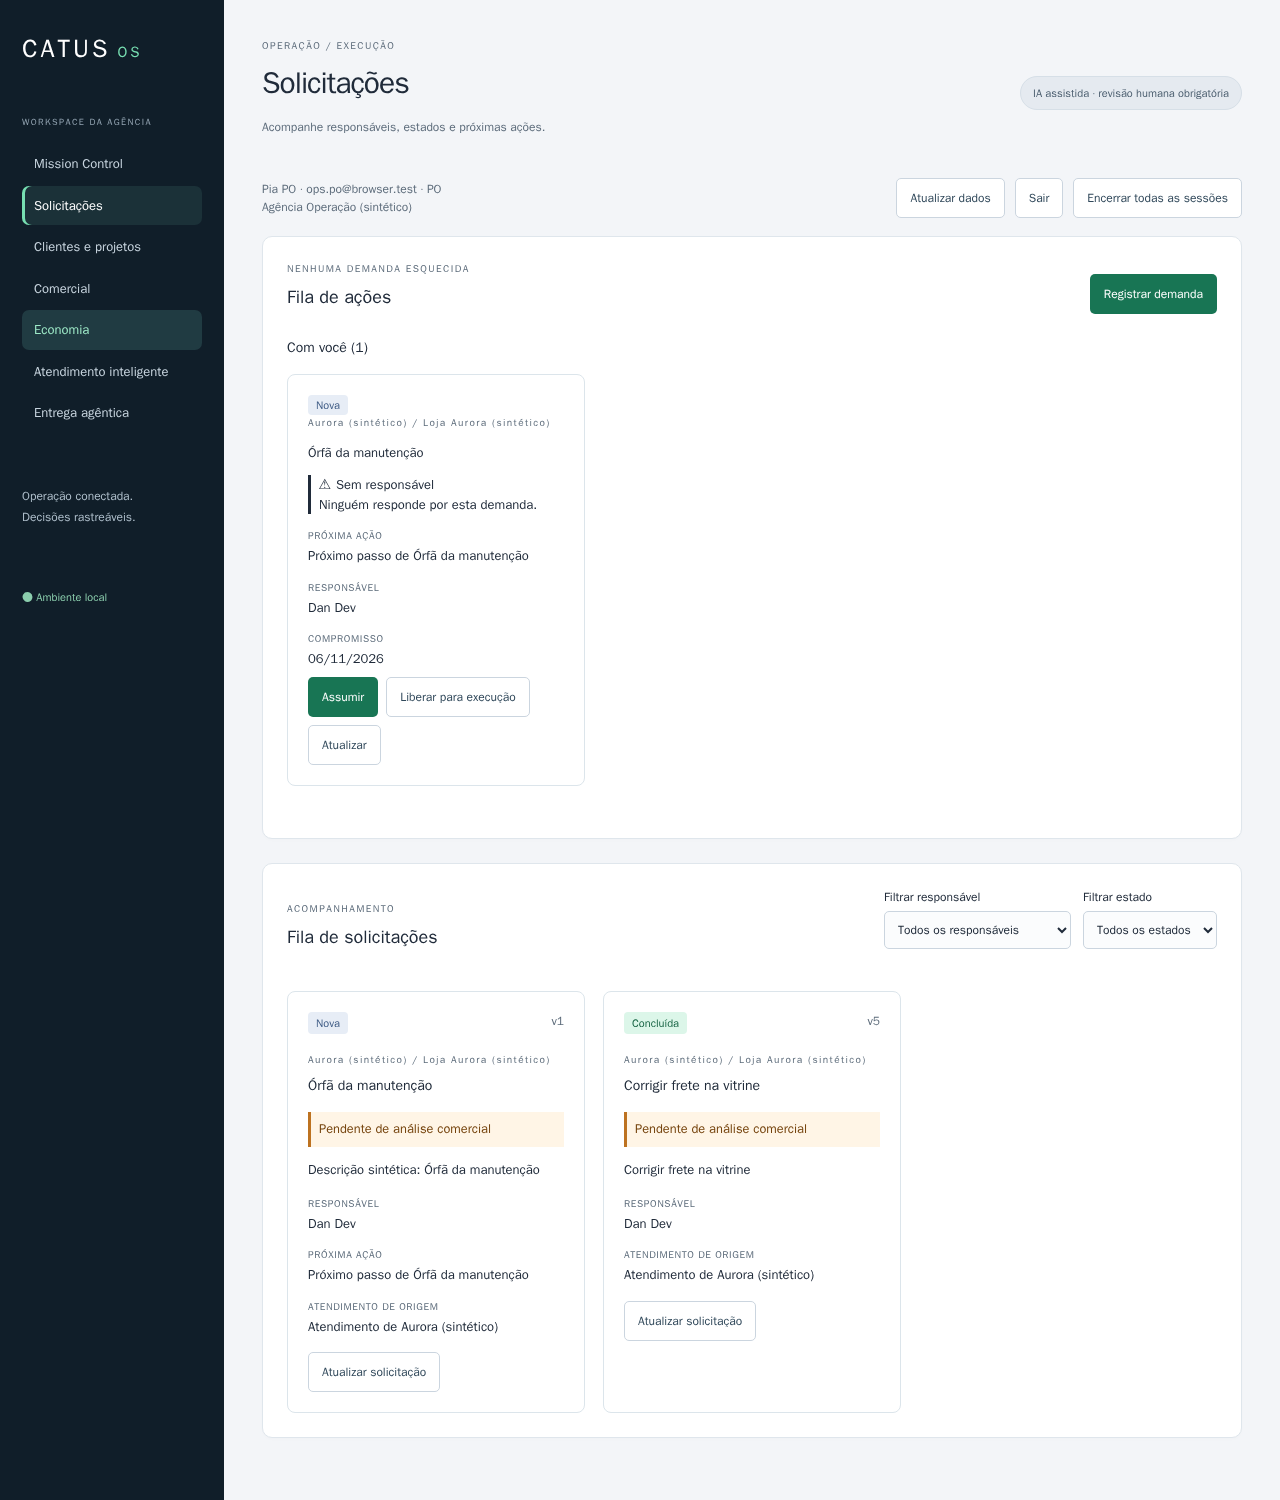
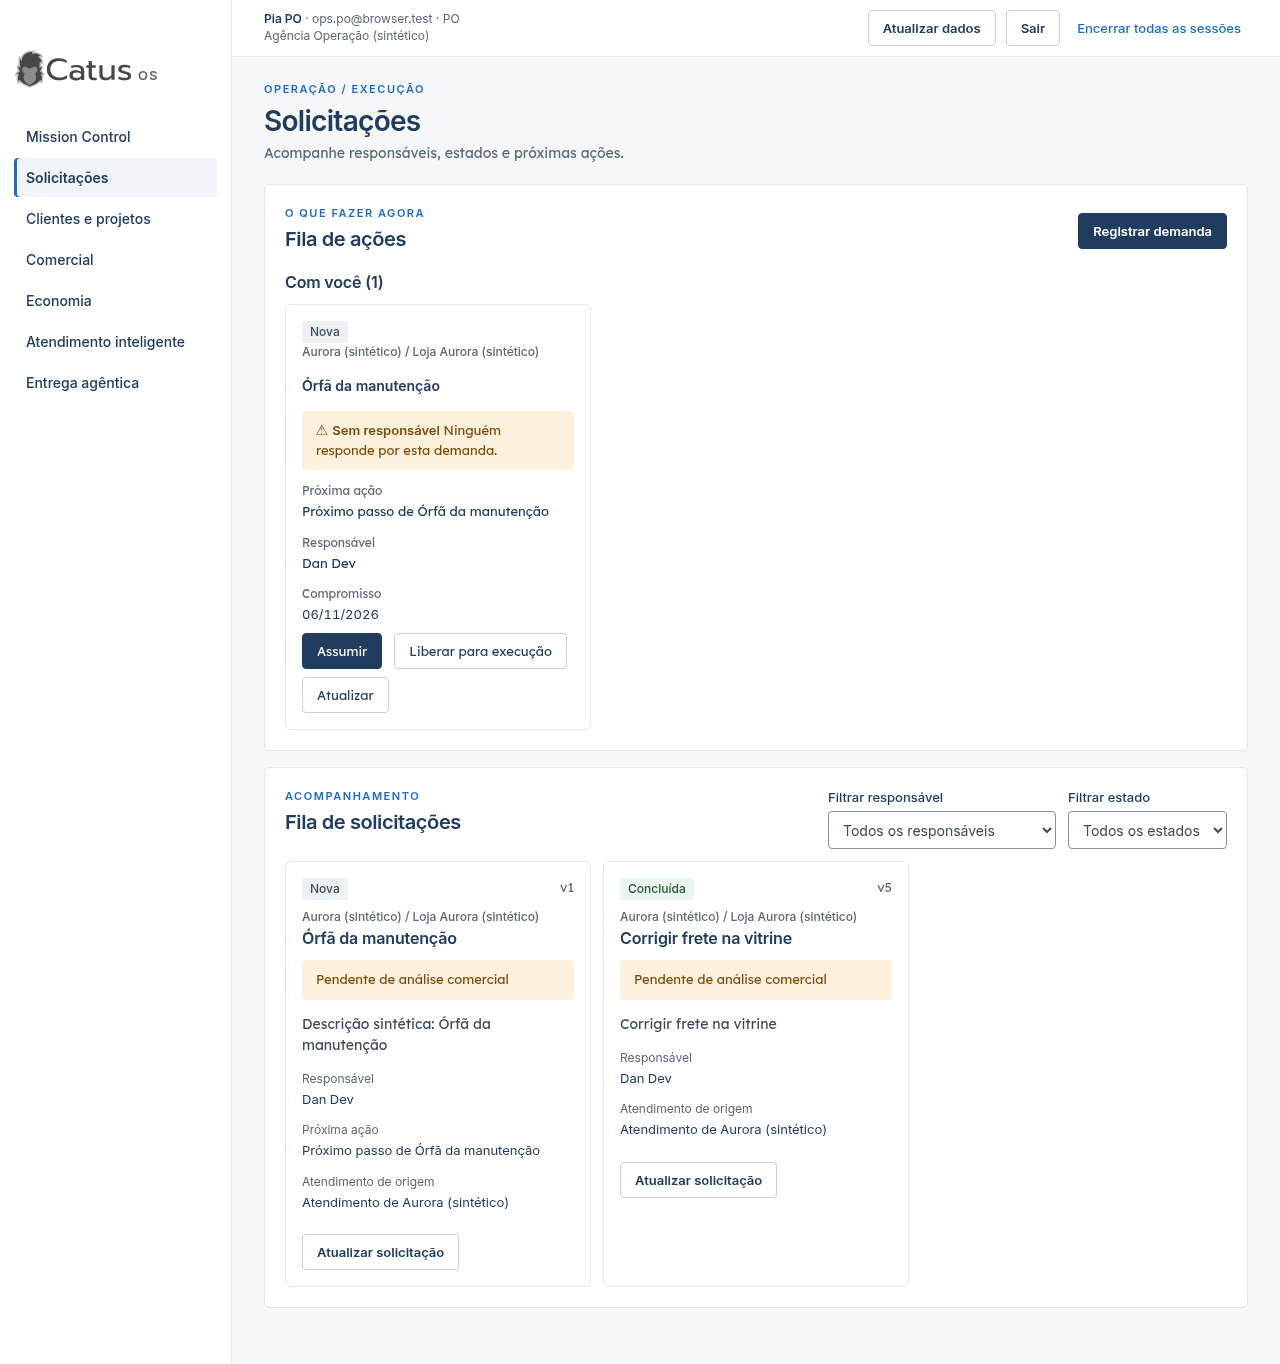
test(quality): approve baselines of the combination (CI run 41882961942, reviewed); rollout plan
Rollback statements proven as the runtime role. Queue alert text on its own line.

diff --git a/tests/followup.test.ts b/tests/followup.test.ts
@@ -865,6 +865,32 @@ test('migration 010 keeps existing demands untouched and writes no event for the
     await dropDisposableDatabase(admin, legacy);
   }
 });
+test('rollback: the previous application version works on this schema as the runtime role', async () => {
+  // The exact statements of src/server/modules/requests.ts at 75a9c14.
+  const id = crypto.randomUUID();
+  const created = await runtime.query(
+    "INSERT INTO requests(id,organization_id,interaction_id,title,description,status,owner,owner_user_id,next_action) VALUES($1,$2,$3,$4,$5,'new',$6,$7,$8) RETURNING *",
+    [id, org, interaction, 'Versão anterior', 'D', 'Pessoa dev', ids.dev, 'A'],
+  );
+  expect(created.rows[0].template).toBeNull();
+  const updated = await runtime.query(
+    'UPDATE requests SET status=$3,owner_user_id=$4,next_action=$5,version=version+1,updated_at=now() WHERE id=$1 AND organization_id=$2 RETURNING *',
+    [id, org, 'triage', ids.dev, 'B'],
+  );
+  expect(updated.rows[0].version).toBe(2);
+  // Without a worker, the change is still on record and its job just waits.
+  const events = await db.query(
+    'SELECT to_status FROM request_events WHERE request_id=$1 ORDER BY occurred_at,version',
+    [id],
+  );
+  expect(events.rows.map((e) => e.to_status)).toEqual(['new', 'triage']);
+  const jobs = await db.query(
+    "SELECT count(*)::int n FROM automation_jobs WHERE request_id=$1 AND state='queued'",
+    [id],
+  );
+  expect(jobs.rows[0].n).toBe(2);
+  await drain();
+});
 test('more than 500 open demands: every one is covered and no open alert is resolved', async () => {
   await drain();
   const total = 650,

diff --git a/src/web/DemandQueue.svelte b/src/web/DemandQueue.svelte
@@ -111,7 +111,7 @@
     <p class="eyebrow">{i.client_name} / {i.project_name}</p>
     <p><strong>{i.title}</strong></p>
     {#each i.signals as s (s.kind)}<p class="attention">
-        <strong>⚠ {s.label}{s.is_new ? ' · novo' : ''}</strong>
+        <strong>⚠ {s.label}{s.is_new ? ' · novo' : ''}</strong><br />
         {s.reason}
       </p>{/each}
     <dl>

diff --git a/docs/OPS_FOLLOWUP.md b/docs/OPS_FOLLOWUP.md
@@ -91,7 +91,7 @@ Decisões comerciais, contratuais e de publicação permanecem humanas. O servid
 
 ### O que mudou
 
-- **Fila de ações em Solicitações:** "Com você" e "Da equipe", calculada a cada leitura.
+- **Fila de ações em Solicitações:** "Com você" e "Da equipe", calculada a cada leitura sobre todas as demandas abertas.
 - **Registro único e curto:** só o título é obrigatório. O modelo define a próxima ação e o compromisso, a sessão define o responsável, e o atendimento mais recente é a origem. O formulário 04 de "Clientes e projetos" saiu.
 - **Um formulário de atualização:** o mesmo para a fila e para os cartões, com compromisso, motivo e dependência.
 - **Mudança de etapa revendo a próxima ação:** nada é gravado até salvar. Concluir é um clique, porque não há próxima ação.
@@ -128,7 +128,7 @@ Compromissos contam dias úteis, sem feriados, e usam o dia em UTC, como o resta
 
 ### Implantação futura
 
-Exige backup e autorização. A migration `010` só acrescenta colunas anuláveis, sem reescrever a tabela, e tabelas novas. A versão anterior da aplicação continua funcionando com esse esquema, o que permite voltar o código sem voltar os dados. As demandas existentes ficam sem compromisso até a primeira mudança de etapa, e a fila as sinaliza.
+Exige backup e autorização. A migration `010` só acrescenta colunas anuláveis, sem reescrever a tabela, e tabelas novas. A versão anterior da aplicação continua funcionando com esse esquema, o que permite voltar o código sem voltar os dados. As demandas existentes ficam sem compromisso até a primeira mudança de etapa, e a fila as sinaliza como "Sem compromisso". Nada é preenchido na migration.
 
 ### Antes e depois
 
@@ -139,7 +139,7 @@ Mesma regra de contagem (`Meter`), mesmas pessoas e mesmos dados sintéticos. Cl
 | Registrar demanda                  | 6 + 3                 | **3 + 1**                | Agora nasce com compromisso                             |
 | Localizar o que precisa de ação    | 9 + 0, 3 de 6 sinais  | **1 + 0, 6 de 6 sinais** | Parada, vencida e atraso de cliente passam a existir    |
 | Bloquear por causa do cliente      | 8 + 1, em texto livre | **5 + 1, estruturado**   | Motivo, dependência e data de cobrança                  |
-| Dar dono a demanda sem responsável | 4 + 0                 | **1 + 0**                |                                                         |
+| Dar dono a demanda sem responsável | 4 + 0                 | **1 + 0**                | 212 → 164 ms                                            |
 | Levar uma demanda até o fim        | 24 + 4                | **7 + 2**                | 4 passagens manuais viram 3, com a próxima ação revista |
 
 Resultados em `docs/quality/ops-followup/antes/as-is.json` e `depois/depois.json`.
@@ -160,7 +160,7 @@ Resultados em `docs/quality/ops-followup/antes/as-is.json` e `depois/depois.json
    | Dar dono a demanda sem responsável               | 4 + 0                 | **1 + 0**                | 212 → 141 ms     |                                                         |
    | Levar uma demanda até o fim                      | 24 + 4                | **7 + 2**                | 5.798 → 1.867 ms | 4 passagens manuais viram 3, com a próxima ação revista |
 
-Dois tempos pioraram. Registrar e bloquear têm menos passos, mas agora recarregam a fila e os dados depois de salvar, e bloquear passa também pela liberação e pela sessão de outra pessoa.
+Três tempos pioraram (registrar, localizar e bloquear). Têm menos passos, mas agora recarregam os dados, e bloquear passa também pela liberação e pela sessão de outra pessoa. As medições são de uma máquina e variam entre execuções.
 
 Resultados em `docs/quality/ops-followup/antes/as-is.json` e `depois/depois.json`.
 
@@ -176,7 +176,14 @@ Resultados em `docs/quality/ops-followup/antes/as-is.json` e `depois/depois.json
 
 ## 6. Efeito na homologação e nos gates
 
-A automação roda sozinha, então `automation_jobs` e `demand_alerts` mudam com o sistema parado. São dados operacionais derivados das demandas: voltam a ser calculados na varredura seguinte.
+A automação roda sozinha, então `automation_jobs` e `demand_alerts` mudam com o sistema parado. São dados operacionais derivados das demandas.
 
-- **G4:** a impressão digital do estágio C passa a ignorar essas duas tabelas, como já fazia com `rate_limits` e `oidc_transactions`. As tabelas de negócio, inclusive `requests` e `request_events`, continuam comparadas.
-- **Próximo rollout:** o script de atualização da homologação também precisa ignorar essas duas tabelas ao comparar os dados, ou vai parar sem motivo real.
+- **G4, comparação exata:** a impressão digital do estágio C passa a ignorar essas duas tabelas, como já fazia com `rate_limits` e `oidc_transactions`. As tabelas de negócio, inclusive `requests` e `request_events`, continuam comparadas.
+- **G4, verificações complementares:** cada tabela recebe uma linha sintética, e o G4 compara as colunas imutáveis das linhas existentes no instante do backup, na restauração, ao recriar os contêineres e após down/up. Também confere as invariantes: um alerta aberto por demanda e condição, datas coerentes, trabalhos sem estado impossível e índices únicos válidos.
+- **Rollout:** veja `docs/ROLLOUT_FOLLOWUP.md`.
+
+## 7. Limites conhecidos
+
+- A fila cobre todas as demandas abertas, sem limite. A lista completa de Solicitações mostra as 500 mais recentes e avisa quando chega a esse número.
+- A fila mostra 60 cartões por grupo de cada vez, com a contagem total e "Mostrar mais".
+- A varredura de 650 demandas levou cerca de 100 ms em teste, com dados simples. Não foi medida com volume real de horas e estimativas.

diff --git a/docs/ROLLOUT_FOLLOWUP.md b/docs/ROLLOUT_FOLLOWUP.md
@@ -1,0 +1,65 @@
+# Plano de rollout: identidade Catus, WOFF2 e fila de ações
+
+**Nenhum rollout está autorizado por este documento.** Ele descreve o que fazer quando houver autorização, a partir de `75a9c14`. Execute no host da homologação, com o app fora de uso durante a janela.
+
+## O que muda
+
+| Item             | Efeito                                                                                                                              |
+| ---------------- | ----------------------------------------------------------------------------------------------------------------------------------- |
+| Migration `010`  | Acrescenta 4 colunas anuláveis em `requests`, 3 tabelas e 1 gatilho. Não reescreve linhas                                           |
+| Servidor         | Entrega `.woff2`; nova rota `/api/followup`; `/api/overview` ganha o campo `followup`; bloquear passa a exigir motivo e dependência |
+| Automação        | Roda no processo da API, sem serviço externo. `FOLLOWUP_AUTOMATION=off` desliga só os alertas                                       |
+| Dados existentes | Demandas ficam sem compromisso e sem modelo. Nada é preenchido por suposição                                                        |
+
+## Antes
+
+1. Confirme o SHA aprovado e a árvore limpa no checkout.
+2. Atualize o script de atualização para o novo SHA. Ele precisa acrescentar `automation_jobs` e `demand_alerts` às tabelas ignoradas na comparação exata (`TRANSIENT`), e conferir as duas à parte, como `deploy/g4.sh` faz. O script de `75a9c14` não serve.
+3. Registre o estado atual, por contagem e hash de cada tabela de negócio, e a identidade do cluster.
+4. Conte o que a primeira varredura vai sinalizar:
+
+   ```sql
+   SELECT count(*) FILTER (WHERE owner_user_id IS NULL) sem_dono, count(*) sem_compromisso
+   FROM requests WHERE status <> 'done';
+   ```
+
+   Cada demanda aberta anterior à `010` vai gerar um aviso "Sem compromisso". Avise a equipe.
+
+5. Gere um backup cifrado (`deploy/catus.sh backup`) e guarde fora do volume do banco.
+6. Faça o teste de restauração (`restore-test`) e compare o banco restaurado com o original. Sem esse resultado, não continue. O banco `*_restore_test` fica no cluster com uma cópia dos dados: decida depois se o remove.
+
+## Execução
+
+1. `git switch --detach <SHA aprovado>`.
+2. `deploy/catus.sh update`, que faz backup, build, migration e reinício. Só a migration `010` deve aparecer como aplicada.
+
+## Validação de integridade
+
+1. Todos os serviços saudáveis, mesma identidade de cluster e mesmo volume `catus_pgdata`.
+2. Todas as tabelas de negócio com a mesma contagem e o mesmo hash, exceto `requests`, por causa das colunas novas. Em `requests`, compare os hashes só das colunas antigas.
+3. `request_events` vazia, se ninguém usou o sistema; `demand_alerts` só com alertas abertos, conferidos com a contagem acima.
+4. Sem violações:
+
+   ```sql
+   SELECT count(*) FROM (SELECT 1 FROM demand_alerts WHERE resolved_at IS NULL GROUP BY request_id,kind HAVING count(*)>1) d;
+   SELECT count(*) FROM automation_jobs WHERE state='failed';
+   ```
+
+5. Depois de duas varreduras (10 minutos), os alertas abertos não mudam sem mudança nas demandas.
+6. `deploy/g4.sh` com GO, e M2 e M5 desligados.
+7. No navegador, com pessoas reais: login Google, permissões de cada papel, Inter e Lexend carregadas sem erro de CSP e a fila de cada papel. Essa validação continua humana.
+
+## Rollback
+
+**Da aplicação, sem voltar o banco:** é o caminho normal.
+
+1. `git switch --detach <SHA anterior>` e `deploy/catus.sh update`, sem nenhuma operação no banco.
+2. As colunas e tabelas novas ficam sem uso. O gatilho continua registrando eventos, e os trabalhos ficam na fila sem processar, sem efeito nas transações.
+
+Foi ensaiado em banco descartável: as jornadas de `94971be`, versão anterior a este PR, passaram sobre o esquema já com a `010`, e `tests/followup.test.ts` confere os mesmos comandos com o papel de runtime. Não foi ensaiado na instalação real.
+
+**Ao voltar para a versão nova depois:** o que foi alterado nesse intervalo gera compromissos desatualizados, que aparecem como vencidos ou sem compromisso na fila.
+
+**Do banco, só se a validação mostrar perda ou corrupção de dados:** pare o app, restaure o backup cifrado do passo 5 em um banco novo, confira e só então troque. Mudanças feitas depois do backup se perdem, por isso a decisão é sua. Não apague o volume.
+
+**Critérios para parar e voltar:** qualquer diferença em tabela de negócio, cluster ou volume diferente, migration inesperada, serviço sem saúde após 5 minutos, ou G4 sem GO.
